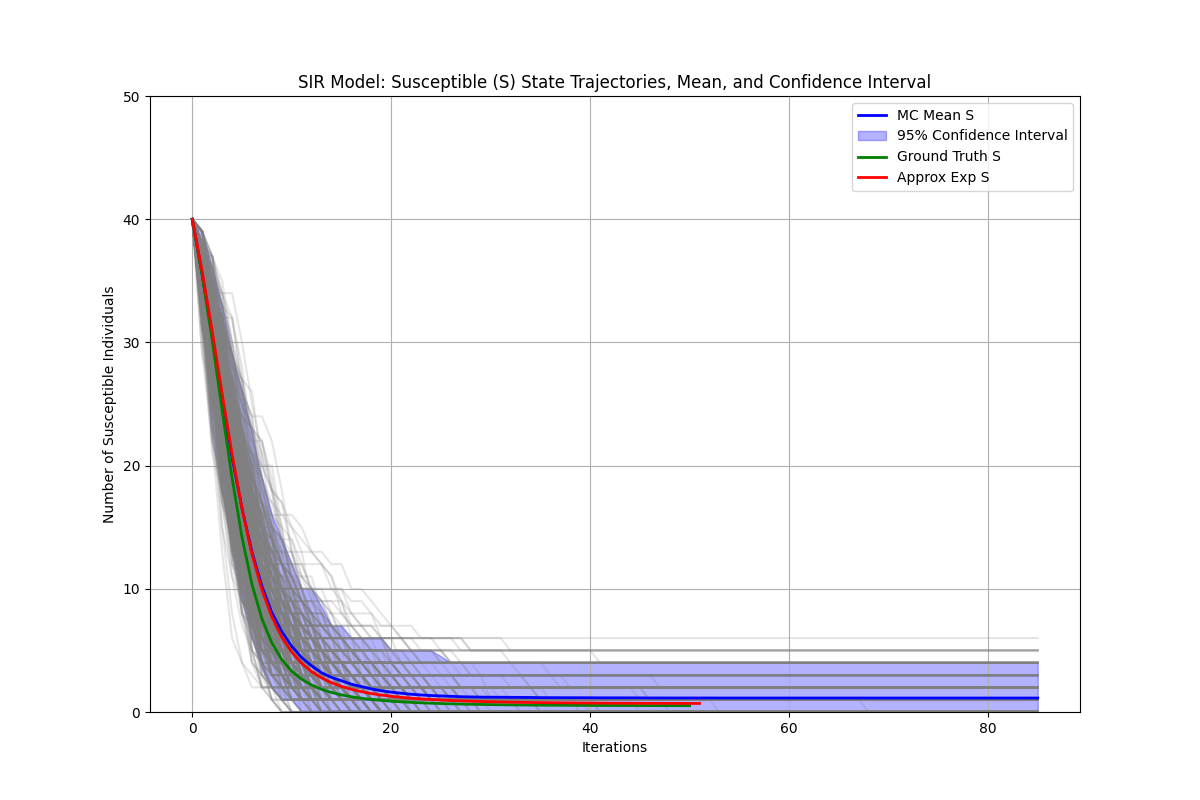
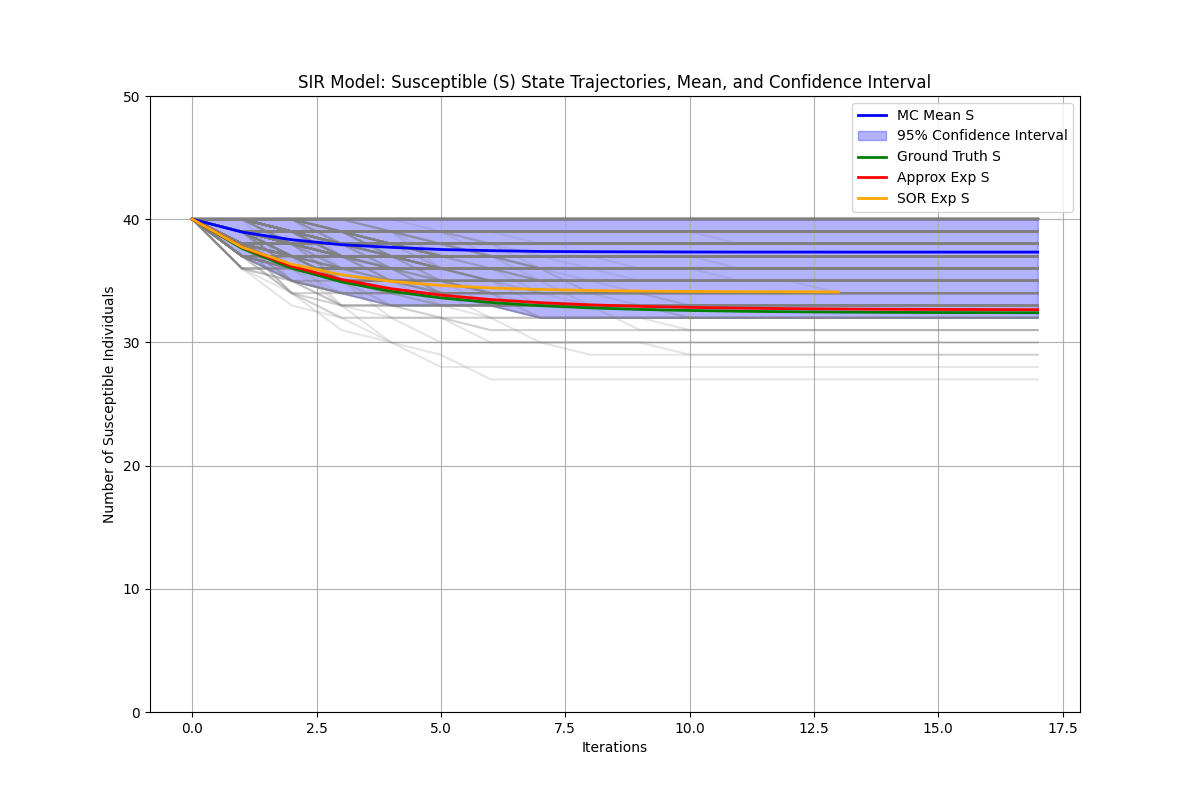
update sor implementation

Changed region(s): [[0.1542, 0.2188, 0.8942, 0.9375]]

diff --git a/simulations/aapps.py b/simulations/aapps.py
@@ -1,0 +1,94 @@
+import torch
+from torch_geometric.utils import from_networkx
+import networkx as nx
+import matplotlib.pyplot as plt
+
+
+def sor_approx_conditional_probability_iteration_exp(data, beta, gamma, initial_infected_nodes, tol=0.001, omega=1.0):
+    N = data.num_nodes
+    status = torch.zeros((N, 3), device='cuda')
+
+    status[initial_infected_nodes, 1] = 1
+    status[:, 0] = (status.sum(dim=1) == 0).float()
+
+    s = status[:, 0]
+    i = status[:, 1]
+    r = status[:, 2]
+
+    iteration_results = []
+    t = 0
+
+    iteration_results.append({
+        'iteration': t,
+        'susceptible': s.clone().cpu().tolist(),
+        'infected': i.clone().cpu().tolist(),
+        'recovered': r.clone().cpu().tolist()
+    })
+
+    while i.max().item() > tol:
+        t += 1
+
+        edge_src, edge_dst = data.edge_index
+        infective_contributions = torch.sparse_coo_tensor(
+            torch.stack([edge_dst, edge_src]),
+            i[edge_src],
+            (N, N),
+            device='cuda'
+        ).to_dense().sum(dim=1)
+
+        s_new = s * torch.exp(-beta * infective_contributions)
+        i_new = s - s_new + i * (1 - gamma)
+        r_new = r + i * gamma
+
+        s, i, r = s_new, omega*i_new+(1-omega)*i, r_new
+
+        iteration_results.append({
+            'iteration': t,
+            'susceptible': s.clone().cpu().tolist(),
+            'infected': i.clone().cpu().tolist(),
+            'recovered': r.clone().cpu().tolist()
+        })
+
+    return iteration_results
+
+def plot_sir_trends(results):
+    iterations = [res['iteration'] for res in results]
+    S_counts = [sum(res['susceptible']) for res in results]
+    I_counts = [sum(res['infected']) for res in results]
+    R_counts = [sum(res['recovered']) for res in results]
+
+    plt.figure(figsize=(10, 6))
+    plt.plot(iterations, S_counts, label='Susceptible (S)', color='blue')
+    plt.plot(iterations, I_counts, label='Infected (I)', color='red')
+    plt.plot(iterations, R_counts, label='Recovered (R)', color='green')
+    plt.xlabel('Iterations')
+    plt.ylabel('Number of individuals (Expected)')
+    plt.title('SIR Model: Expected Number of Individuals in Each State')
+    plt.legend()
+    plt.grid(True)
+    plt.show()
+
+
+def test_sor_approx_conditional_probability_iteration_exp():
+    G = nx.barabasi_albert_graph(100, 2).to_directed()
+    data = from_networkx(G).to('cuda')
+
+    beta = 0.03
+    gamma = 0.01
+    initial_infected_nodes = torch.tensor([0, 1], device='cuda')
+    tol = 0.001
+    omega = 1.3
+
+    results = sor_approx_conditional_probability_iteration_exp(data, beta, gamma, initial_infected_nodes, tol, omega)
+
+    for result in results[:5]:
+        print(f"Iteration {result['iteration']}:")
+        print(f"  Susceptible: {result['susceptible']}")
+        print(f"  Infected: {result['infected']}")
+        print(f"  Recovered: {result['recovered']}\n")
+
+    plot_sir_trends(results)
+
+
+if __name__ == '__main__':
+    test_sor_approx_conditional_probability_iteration_exp()

diff --git a/README.md b/README.md
@@ -27,6 +27,7 @@ Specificlly, for installation of `torch` and `PyG`:
 pip install https://download.pytorch.org/whl/cu118/torch-2.4.1%2Bcu118-cp310-cp310-linux_x86_64.whl#sha256=740bae6eb10c6b41cb86c4f9e84da0b4533b5595aed4f06694d95d5e32b4076c
 pip install pyg-lib -f https://data.pyg.org/whl/torch-2.4.0+cu118.html
 pip install torch-geometric
+pip install torch-scatter==2.1.2 -f https://data.pyg.org/whl/torch-2.4.1+cu118.html
 ```
 
 ## Execution
@@ -50,19 +51,24 @@ After execution of the code, there will generate a folder containing a trajector
 and a `.csv` table looks like
 
 ```
-                             Metric         Value
-0              Monte Carlo Time (s)  5.702568e+01
-1             Ground Truth Time (s)  2.435303e-02
-2            Approximation Time (s)  2.206039e-02
-3      MC Average Convergence Steps  4.581400e+01
-4              GT Convergence Steps  7.500000e+01
-5   Approximation Convergence Steps  7.600000e+01
-6             GT Final S Percentile  3.040000e+01
-7         Approx Final S Percentile  3.040000e+01
-8                    GT Kendall-Tau  8.372881e-01
-9                        GT p-value  7.614124e-17
-10               Approx Kendall-Tau  8.423729e-01
-11                   Approx p-value  4.956615e-17
+                          Metric         Value
+0           Monte Carlo Time (s)  3.509154e+00
+1          Ground Truth Time (s)  5.710840e-03
+2         Approximation Time (s)  4.809856e-03
+3            SOR Approx Time (s)  3.976583e-03
+4   MC Average Convergence Steps  6.578000e+00
+5           GT Convergence Steps  1.800000e+01
+6       Approx Convergence Steps  1.800000e+01
+7          SOR Convergence Steps  1.400000e+01
+8          GT Final S Percentile  3.800000e+00
+9      Approx Final S Percentile  3.800000e+00
+10        SOR Final S Percentile  1.180000e+01
+11                GT Kendall-Tau  8.219331e-01
+12                    GT p-value  3.294221e-16
+13            Approx Kendall-Tau  8.202331e-01
+14                Approx p-value  3.787947e-16
+15               SOR Kendall-Tau  8.219331e-01
+16                   SOR p-value  3.294221e-16
 ```
 
 which reveal our analysis of result.
